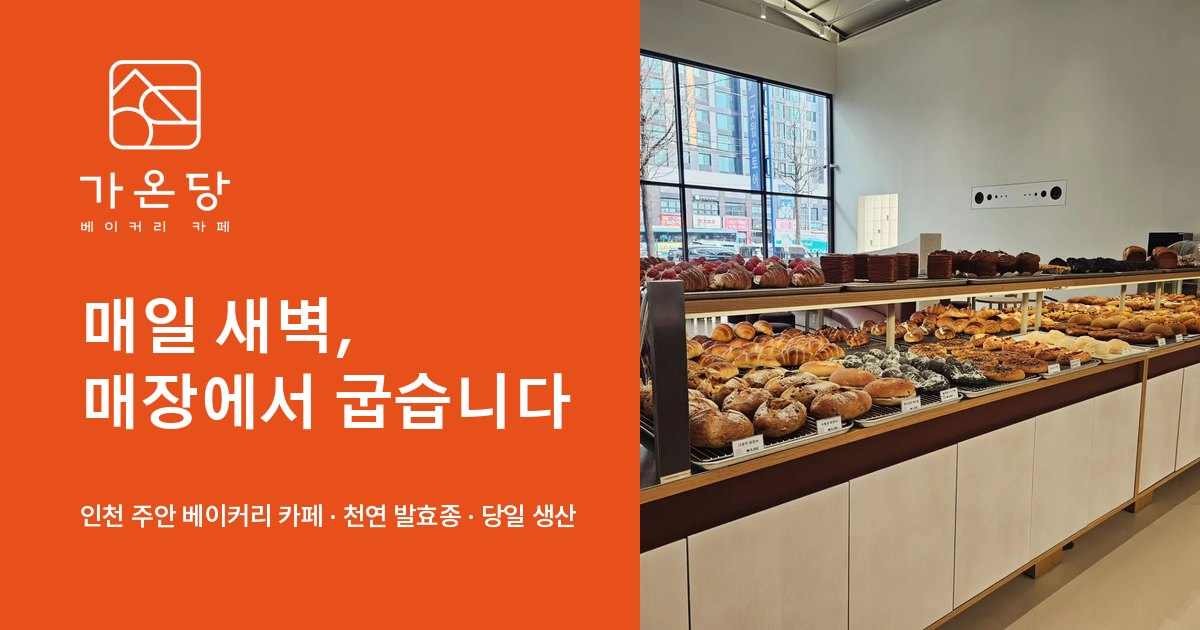
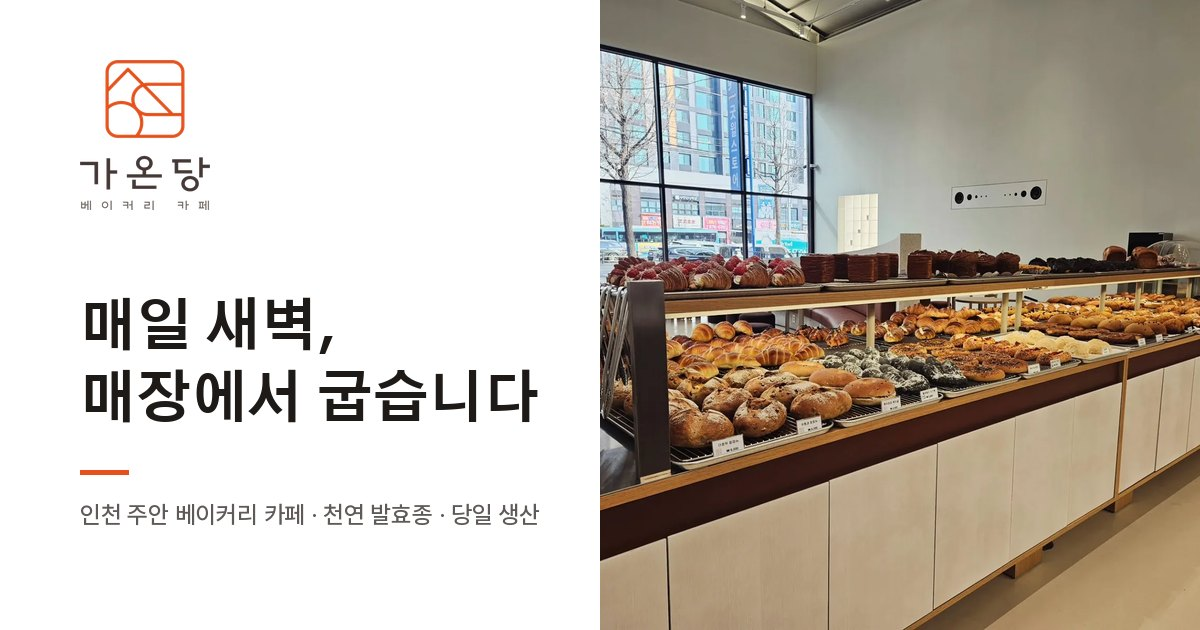
Add files via upload

diff --git a/index.html b/index.html
@@ -16,7 +16,7 @@
 <meta property="og:image:width" content="1200" />
 <meta property="og:image:height" content="630" />
 <meta name="twitter:card" content="summary_large_image" />
-<meta name="theme-color" content="#E7501B" />
+<meta name="theme-color" content="#FFFFFF" />
 <link rel="icon" href="favicon.png" type="image/png" />
 <link rel="preload" href="gd-gothic-b.woff2" as="font" type="font/woff2" crossorigin />
 <link rel="preload" href="gd-pretendard.woff2" as="font" type="font/woff2" crossorigin />
@@ -92,16 +92,16 @@ h1,h2,h3,p{ margin:0; }
 .head-cta{ min-height:42px; padding:0 18px; font-size:.88rem; }
 @media (max-width:899px){ .head-cta{ display:none; } }
 
-/* 히어로: 주황 면 */
-.hero{ background:var(--orange); color:var(--white); }
-.hero .wrap{ display:grid; gap:40px; padding:56px 0 64px; align-items:center; }
-@media (min-width:900px){ .hero .wrap{ grid-template-columns:5fr 6fr; gap:72px; padding:96px 0; } }
-.hero .logo{ width:132px; }
-.hero h1{ margin-top:32px; font-family:var(--head); font-weight:700; font-size:clamp(2.4rem,6.4vw,4rem); line-height:1.22; letter-spacing:-.035em; }
-.hero p.big{ margin-top:22px; font-size:1.2rem; font-weight:600; line-height:1.65; max-width:22em; }
+/* 히어로: 흰 바탕 + 매장 사진 (v0.2 · 주황은 로고 · 버튼만) */
+.hero{ background:var(--white); color:var(--ink); }
+.hero .wrap{ display:grid; gap:40px; padding:48px 0 72px; align-items:center; }
+@media (min-width:900px){ .hero .wrap{ grid-template-columns:4fr 7fr; gap:72px; padding:80px 0 112px; } }
+.hero .logo{ width:112px; }
+.hero h1{ margin-top:32px; font-family:var(--head); font-weight:700; font-size:clamp(2.3rem,5.8vw,3.7rem); line-height:1.25; letter-spacing:-.035em; }
+.hero p.big{ margin-top:20px; font-size:1.06rem; line-height:1.75; max-width:24em; color:var(--soft); }
 .hero .cta{ display:flex; flex-wrap:wrap; gap:10px; margin-top:32px; }
 .hero figure{ margin:0; }
-.hero figure img{ width:100%; aspect-ratio:1; object-fit:cover; border-radius:var(--r); }
+.hero figure img{ width:100%; aspect-ratio:4/3; object-fit:cover; border-radius:var(--r); }
 
 /* 새벽 */
 .dawn .wrap{ display:grid; gap:48px; align-items:center; }
@@ -172,12 +172,12 @@ h1,h2,h3,p{ margin:0; }
 .visit .cta{ margin-top:26px; display:flex; flex-wrap:wrap; gap:10px; }
 .map{ width:100%; aspect-ratio:4/3; border:0; border-radius:var(--r); background:var(--white); }
 
-/* 푸터: 주황 */
-.foot{ background:var(--orange); color:var(--white); text-align:center; padding:60px 0 calc(110px + env(safe-area-inset-bottom)); }
+/* 푸터: 흰 바탕 (v0.2) */
+.foot{ background:var(--white); color:var(--ink); border-top:1px solid var(--line); text-align:center; padding:60px 0 calc(110px + env(safe-area-inset-bottom)); }
 @media (min-width:900px){ .foot{ padding:76px 0; } }
-.foot img{ width:120px; margin:0 auto 22px; }
-.foot .line{ font-family:var(--head); font-size:1.35rem; }
-.foot p.s{ margin-top:10px; font-size:1rem; font-weight:600; }
+.foot img{ width:96px; margin:0 auto 22px; }
+.foot .line{ font-family:var(--head); font-size:1.3rem; }
+.foot p.s{ margin-top:10px; font-size:.92rem; color:var(--soft); }
 .foot a{ text-decoration:underline; text-underline-offset:3px; }
 
 /* 모바일 하단 바 (불투명) */
@@ -204,10 +204,10 @@ h1,h2,h3,p{ margin:0; }
 </header>
 
 <main id="top">
-  <section class="hero on-orange">
+  <section class="hero">
     <div class="wrap">
       <div class="reveal">
-        <img class="logo" src="gd-logo-w.webp" alt="가온당 베이커리 카페 로고" width="520" height="598" />
+        <img class="logo" src="gd-logo.webp" alt="가온당 베이커리 카페 로고" width="520" height="598" />
         <h1>매일 새벽,<br />매장에서 굽습니다</h1>
         <p class="big">천연 발효종으로 정성껏 구워낸 빵과 향긋한 커피. 인천 주안의 베이커리 카페, 가온당입니다.</p>
         <div class="cta">
@@ -219,7 +219,7 @@ h1,h2,h3,p{ margin:0; }
     </div>
   </section>
 
-  <section class="sec dawn" id="dawn" aria-labelledby="dawn-h">
+  <section class="sec dawn" id="dawn" aria-labelledby="dawn-h" style="border-top:1px solid var(--line)">
     <div class="wrap">
       <div class="reveal">
         <p class="label">FRESH EVERY DAY</p>
@@ -299,7 +299,7 @@ h1,h2,h3,p{ margin:0; }
 
 <footer class="foot">
   <div class="wrap">
-    <img src="gd-logo-w.webp" alt="" width="520" height="598" loading="lazy" />
+    <img src="gd-logo.webp" alt="" width="520" height="598" loading="lazy" />
     <p class="line">당신의 이야기가 시작되는 곳, 가온당</p>
     <p class="s">인천 미추홀구 인주대로 380 · 032-876-8988 · <a href="https://www.instagram.com/gaondang_bakery/" target="_blank" rel="noopener">@gaondang_bakery</a></p>
     <p class="s">© 가온당</p>
